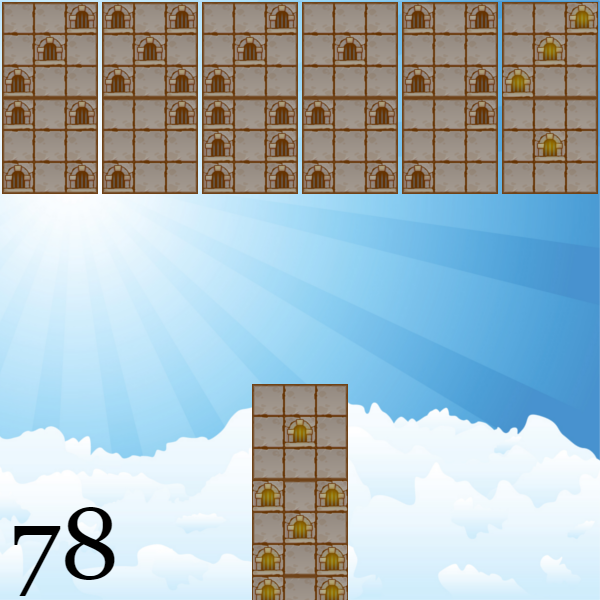
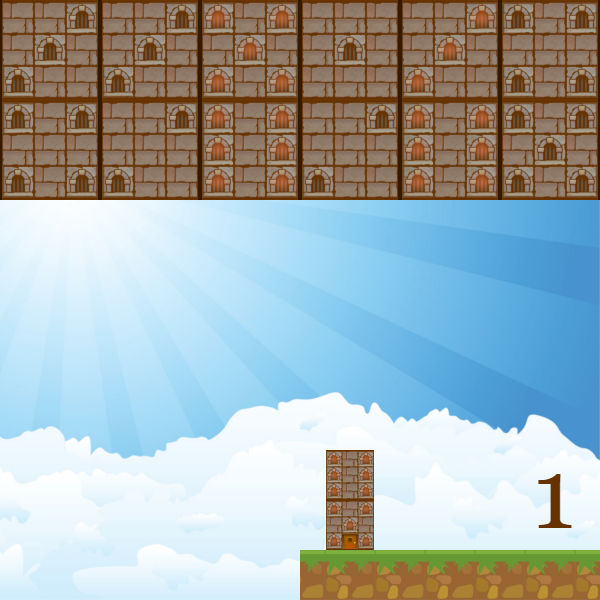
Added score tracking and time bonus

diff --git a/gj-js-api-min.js b/gj-js-api-min.js
@@ -1,0 +1,31 @@
+var GJAPI={};
+GJAPI.iGameID    = 47240;      // # change this
+GJAPI.sGameKey   = "f1b47c5077d0b44a0de2d408687f3207";     // # change this too
+GJAPI.bAutoLogin = true;   // automatically log in users on Game Jolt
+
+0!==GJAPI.iGameID&&""!==GJAPI.sGameKey||alert("Game ID or Game Key missing!");GJAPI.sAPI="http://gamejolt.com/api/game/v1";GJAPI.sLogName="[Game Jolt API]";GJAPI.iLogStack=20;GJAPI.asQueryParam=function(){for(var a={},f=window.location.search.substring(1).split("&"),c=0;c<f.length;++c){var b=f[c].split("=");"undefined"===typeof a[b[0]]?a[b[0]]=b[1]:"string"===typeof a[b[0]]?a[b[0]]=[a[b[0]],b[1]]:a[b[0]].push(b[1])}return a}();
+GJAPI.bOnGJ=window.location.hostname.match(/gamejolt/)?!0:!1;GJAPI.LogTrace=function(a){GJAPI.iLogStack&&(--GJAPI.iLogStack||(a="(\u256f\u00b0\u25a1\u00b0\uff09\u256f\ufe35 \u253b\u2501\u253b"),console.warn(GJAPI.sLogName+" "+a),console.trace())};GJAPI.SEND_USER=!0;GJAPI.SEND_GENERAL=!1;GJAPI.SendRequest=function(a,f,c){GJAPI.SendRequestEx(a,f,"json","",c)};
+GJAPI.SendRequestEx=function(a,f,c,b,d){a=GJAPI.sAPI+encodeURI(a)+(-1===a.indexOf("/?")?"?":"&")+"game_id="+GJAPI.iGameID+"&format="+c;GJAPI.bActive&&f===GJAPI.SEND_USER&&(a+="&username="+GJAPI.sUserName+"&user_token="+GJAPI.sUserToken);a+="&signature="+hex_md5(a+GJAPI.sGameKey);__CreateAjax(a,b,function(b){console.info(GJAPI.sLogName+" <"+a+"> "+b);if(""!==b&&"function"===typeof d)switch(c){case "json":d(eval("("+b+")").response);break;case "dump":var f=b.indexOf("\n"),h=b.substr(0,f-1);b=b.substr(f+
+1);d({success:"SUCCESS"===h,data:b});break;default:d(b)}})};GJAPI.bActive=GJAPI.bAutoLogin&&GJAPI.asQueryParam.gjapi_username&&GJAPI.asQueryParam.gjapi_token?!0:!1;GJAPI.sUserName=GJAPI.bActive?GJAPI.asQueryParam.gjapi_username:"";GJAPI.sUserToken=GJAPI.bActive?GJAPI.asQueryParam.gjapi_token:"";console.info(GJAPI.asQueryParam);console.info(GJAPI.sLogName+(GJAPI.bOnGJ?" E":" Not e")+"mbedded on Game Jolt <"+window.location.origin+window.location.pathname+">");
+console.info(GJAPI.sLogName+(GJAPI.bActive?" U":" No u")+"ser recognized <"+GJAPI.sUserName+">");window.location.hostname||console.warn(GJAPI.sLogName+" XMLHttpRequest may not work properly on a local environment");GJAPI.bSessionActive=!0;
+GJAPI.SessionOpen=function(){GJAPI.bActive?GJAPI.iSessionHandle||GJAPI.SendRequest("/sessions/open/",GJAPI.SEND_USER,function(a){a.success&&(GJAPI.iSessionHandle=window.setInterval(GJAPI.SessionPing,3E4),window.addEventListener("beforeunload",GJAPI.SessionClose,!1))}):GJAPI.LogTrace("SessionOpen() failed: no user logged in")};GJAPI.SessionPing=function(){GJAPI.bActive?GJAPI.SendRequest("/sessions/ping/?status="+(GJAPI.bSessionActive?"active":"idle"),GJAPI.SEND_USER):GJAPI.LogTrace("SessionPing() failed: no user logged in")};
+GJAPI.SessionClose=function(){GJAPI.bActive?(GJAPI.iSessionHandle&&(window.clearInterval(GJAPI.iSessionHandle),window.removeEventListener("beforeunload",GJAPI.SessionClose),GJAPI.iSessionHandle=0),GJAPI.SendRequest("/sessions/close/",GJAPI.SEND_USER)):GJAPI.LogTrace("SessionClose() failed: no user logged in")};GJAPI.bActive&&GJAPI.SessionOpen();
+GJAPI.UserLoginManual=function(a,f,c){GJAPI.bActive?GJAPI.LogTrace("UserLoginManual("+a+", "+f+") failed: user "+GJAPI.sUserName+" already logged in"):GJAPI.SendRequest("/users/auth/?username="+a+"&user_token="+f,GJAPI.SEND_GENERAL,function(b){b.success&&(GJAPI.bActive=!0,GJAPI.sUserName=a,GJAPI.sUserToken=f,GJAPI.SessionOpen());"function"===typeof c&&c(b)},!1)};
+GJAPI.UserLogout=function(){GJAPI.bActive?(GJAPI.SessionClose(),GJAPI.bActive=!1,GJAPI.sUserName="",GJAPI.sUserToken="",GJAPI.abTrophyCache={}):GJAPI.LogTrace("UserLogout() failed: no user logged in")};GJAPI.UserFetchID=function(a,f){GJAPI.SendRequest("/users/?user_id="+a,GJAPI.SEND_GENERAL,f)};GJAPI.UserFetchName=function(a,f){GJAPI.SendRequest("/users/?username="+a,GJAPI.SEND_GENERAL,f)};GJAPI.UserFetchCurrent=function(a){GJAPI.bActive?GJAPI.UserFetchName(GJAPI.sUserName,a):GJAPI.LogTrace("UserFetchCurrent() failed: no user logged in")};
+GJAPI.abTrophyCache={};GJAPI.TROPHY_ONLY_ACHIEVED=1;GJAPI.TROPHY_ONLY_NOTACHIEVED=-1;GJAPI.TROPHY_ALL=0;GJAPI.TrophyAchieve=function(a,f){GJAPI.bActive?GJAPI.abTrophyCache[a]||GJAPI.SendRequest("/trophies/add-achieved/?trophy_id="+a,GJAPI.SEND_USER,function(c){c.success&&(GJAPI.abTrophyCache[a]=!0);"function"===typeof f&&f(c)}):GJAPI.LogTrace("TrophyAchieve("+a+") failed: no user logged in")};
+GJAPI.TrophyFetch=function(a,f){GJAPI.bActive?GJAPI.SendRequest("/trophies/"+(a===GJAPI.TROPHY_ALL?"":"?achieved="+(a>=GJAPI.TROPHY_ONLY_ACHIEVED?"true":"false")),GJAPI.SEND_USER,f):GJAPI.LogTrace("TrophyFetch("+a+") failed: no user logged in")};GJAPI.TrophyFetchSingle=function(a,f){GJAPI.bActive?GJAPI.SendRequest("/trophies/?trophy_id="+a,GJAPI.SEND_USER,f):GJAPI.LogTrace("TrophyFetchSingle("+a+") failed: no user logged in")};GJAPI.SCORE_ONLY_USER=!0;GJAPI.SCORE_ALL=!1;
+GJAPI.ScoreAdd=function(a,f,c,b,d){GJAPI.bActive?GJAPI.ScoreAddGuest(a,f,c,"",b,d):GJAPI.LogTrace("ScoreAdd("+a+", "+f+", "+c+") failed: no user logged in")};GJAPI.ScoreAddGuest=function(a,f,c,b,d,e){var g=b&&b.length?!0:!1;GJAPI.SendRequest("/scores/add/?sort="+f+"&score="+c+(g?"&guest="+b:"")+(a?"&table_id="+a:"")+(d?"&extra_data="+d:""),g?GJAPI.SEND_GENERAL:GJAPI.SEND_USER,e)};
+GJAPI.ScoreFetch=function(a,f,c,b){!GJAPI.bActive&&f?GJAPI.LogTrace("ScoreFetch("+a+", "+f+", "+c+") failed: no user logged in"):GJAPI.SendRequest("/scores/?limit="+c+(a?"&table_id="+a:""),f!==GJAPI.SCORE_ONLY_USER?GJAPI.SEND_GENERAL:GJAPI.SEND_USER,b)};GJAPI.DATA_STORE_USER=0;GJAPI.DATA_STORE_GLOBAL=1;GJAPI.DataStoreSet=function(a,f,c,b){GJAPI.SendRequestEx("/data-store/set/?key="+f,a===GJAPI.DATA_STORE_USER,"json","data="+c,b)};
+GJAPI.DataStoreFetch=function(a,f,c){GJAPI.SendRequestEx("/data-store/?key="+f,a===GJAPI.DATA_STORE_USER,"dump","",c)};GJAPI.DataStoreUpdate=function(a,f,c,b,d){GJAPI.SendRequest("/data-store/update/?key="+f+"&operation="+c+"&value="+b,a===GJAPI.DATA_STORE_USER,d)};GJAPI.DataStoreRemove=function(a,f,c){GJAPI.SendRequest("/data-store/remove/?key="+f,a===GJAPI.DATA_STORE_USER,c)};GJAPI.DataStoreGetKeys=function(a,f){GJAPI.SendRequest("/data-store/get-keys/",a===GJAPI.DATA_STORE_USER,f)};
+function __CreateAjax(a,f,c){"string"!==typeof f&&(f="");if(window.XMLHttpRequest){var b=new XMLHttpRequest;b.onreadystatechange=function(){4===b.readyState&&c(b.responseText)};""!==f?(b.open("POST",a),b.setRequestHeader("Content-Type","application/x-www-form-urlencoded"),b.send(f)):(b.open("GET",a),b.send())}else console.error(GJAPI.sLogName+" XMLHttpRequest not supported")}var hexcase=0;function hex_md5(a){return rstr2hex(rstr_md5(str2rstr_utf8(a)))}
+function hex_hmac_md5(a,f){return rstr2hex(rstr_hmac_md5(str2rstr_utf8(a),str2rstr_utf8(f)))}function md5_vm_test(){return"900150983cd24fb0d6963f7d28e17f72"==hex_md5("abc").toLowerCase()}function rstr_md5(a){return binl2rstr(binl_md5(rstr2binl(a),8*a.length))}
+function rstr_hmac_md5(a,f){var c=rstr2binl(a);16<c.length&&(c=binl_md5(c,8*a.length));for(var b=Array(16),d=Array(16),e=0;16>e;e++)b[e]=c[e]^909522486,d[e]=c[e]^1549556828;c=binl_md5(b.concat(rstr2binl(f)),512+8*f.length);return binl2rstr(binl_md5(d.concat(c),640))}function rstr2hex(a){try{hexcase}catch(f){hexcase=0}for(var c=hexcase?"0123456789ABCDEF":"0123456789abcdef",b="",d,e=0;e<a.length;e++)d=a.charCodeAt(e),b+=c.charAt(d>>>4&15)+c.charAt(d&15);return b}
+function str2rstr_utf8(a){for(var f="",c=-1,b,d;++c<a.length;)b=a.charCodeAt(c),d=c+1<a.length?a.charCodeAt(c+1):0,55296<=b&&56319>=b&&56320<=d&&57343>=d&&(b=65536+((b&1023)<<10)+(d&1023),c++),127>=b?f+=String.fromCharCode(b):2047>=b?f+=String.fromCharCode(192|b>>>6&31,128|b&63):65535>=b?f+=String.fromCharCode(224|b>>>12&15,128|b>>>6&63,128|b&63):2097151>=b&&(f+=String.fromCharCode(240|b>>>18&7,128|b>>>12&63,128|b>>>6&63,128|b&63));return f}
+function rstr2binl(a){for(var f=Array(a.length>>2),c=0;c<f.length;c++)f[c]=0;for(c=0;c<8*a.length;c+=8)f[c>>5]|=(a.charCodeAt(c/8)&255)<<c%32;return f}function binl2rstr(a){for(var f="",c=0;c<32*a.length;c+=8)f+=String.fromCharCode(a[c>>5]>>>c%32&255);return f}
+function binl_md5(a,f){a[f>>5]|=128<<f%32;a[(f+64>>>9<<4)+14]=f;for(var c=1732584193,b=-271733879,d=-1732584194,e=271733878,g=0;g<a.length;g+=16)var h=c,k=b,l=d,m=e,c=md5_ff(c,b,d,e,a[g+0],7,-680876936),e=md5_ff(e,c,b,d,a[g+1],12,-389564586),d=md5_ff(d,e,c,b,a[g+2],17,606105819),b=md5_ff(b,d,e,c,a[g+3],22,-1044525330),c=md5_ff(c,b,d,e,a[g+4],7,-176418897),e=md5_ff(e,c,b,d,a[g+5],12,1200080426),d=md5_ff(d,e,c,b,a[g+6],17,-1473231341),b=md5_ff(b,d,e,c,a[g+7],22,-45705983),c=md5_ff(c,b,d,e,a[g+8],7,
+1770035416),e=md5_ff(e,c,b,d,a[g+9],12,-1958414417),d=md5_ff(d,e,c,b,a[g+10],17,-42063),b=md5_ff(b,d,e,c,a[g+11],22,-1990404162),c=md5_ff(c,b,d,e,a[g+12],7,1804603682),e=md5_ff(e,c,b,d,a[g+13],12,-40341101),d=md5_ff(d,e,c,b,a[g+14],17,-1502002290),b=md5_ff(b,d,e,c,a[g+15],22,1236535329),c=md5_gg(c,b,d,e,a[g+1],5,-165796510),e=md5_gg(e,c,b,d,a[g+6],9,-1069501632),d=md5_gg(d,e,c,b,a[g+11],14,643717713),b=md5_gg(b,d,e,c,a[g+0],20,-373897302),c=md5_gg(c,b,d,e,a[g+5],5,-701558691),e=md5_gg(e,c,b,d,a[g+
+10],9,38016083),d=md5_gg(d,e,c,b,a[g+15],14,-660478335),b=md5_gg(b,d,e,c,a[g+4],20,-405537848),c=md5_gg(c,b,d,e,a[g+9],5,568446438),e=md5_gg(e,c,b,d,a[g+14],9,-1019803690),d=md5_gg(d,e,c,b,a[g+3],14,-187363961),b=md5_gg(b,d,e,c,a[g+8],20,1163531501),c=md5_gg(c,b,d,e,a[g+13],5,-1444681467),e=md5_gg(e,c,b,d,a[g+2],9,-51403784),d=md5_gg(d,e,c,b,a[g+7],14,1735328473),b=md5_gg(b,d,e,c,a[g+12],20,-1926607734),c=md5_hh(c,b,d,e,a[g+5],4,-378558),e=md5_hh(e,c,b,d,a[g+8],11,-2022574463),d=md5_hh(d,e,c,b,a[g+
+11],16,1839030562),b=md5_hh(b,d,e,c,a[g+14],23,-35309556),c=md5_hh(c,b,d,e,a[g+1],4,-1530992060),e=md5_hh(e,c,b,d,a[g+4],11,1272893353),d=md5_hh(d,e,c,b,a[g+7],16,-155497632),b=md5_hh(b,d,e,c,a[g+10],23,-1094730640),c=md5_hh(c,b,d,e,a[g+13],4,681279174),e=md5_hh(e,c,b,d,a[g+0],11,-358537222),d=md5_hh(d,e,c,b,a[g+3],16,-722521979),b=md5_hh(b,d,e,c,a[g+6],23,76029189),c=md5_hh(c,b,d,e,a[g+9],4,-640364487),e=md5_hh(e,c,b,d,a[g+12],11,-421815835),d=md5_hh(d,e,c,b,a[g+15],16,530742520),b=md5_hh(b,d,e,
+c,a[g+2],23,-995338651),c=md5_ii(c,b,d,e,a[g+0],6,-198630844),e=md5_ii(e,c,b,d,a[g+7],10,1126891415),d=md5_ii(d,e,c,b,a[g+14],15,-1416354905),b=md5_ii(b,d,e,c,a[g+5],21,-57434055),c=md5_ii(c,b,d,e,a[g+12],6,1700485571),e=md5_ii(e,c,b,d,a[g+3],10,-1894986606),d=md5_ii(d,e,c,b,a[g+10],15,-1051523),b=md5_ii(b,d,e,c,a[g+1],21,-2054922799),c=md5_ii(c,b,d,e,a[g+8],6,1873313359),e=md5_ii(e,c,b,d,a[g+15],10,-30611744),d=md5_ii(d,e,c,b,a[g+6],15,-1560198380),b=md5_ii(b,d,e,c,a[g+13],21,1309151649),c=md5_ii(c,
+b,d,e,a[g+4],6,-145523070),e=md5_ii(e,c,b,d,a[g+11],10,-1120210379),d=md5_ii(d,e,c,b,a[g+2],15,718787259),b=md5_ii(b,d,e,c,a[g+9],21,-343485551),c=safe_add(c,h),b=safe_add(b,k),d=safe_add(d,l),e=safe_add(e,m);return[c,b,d,e]}function md5_cmn(a,f,c,b,d,e){return safe_add(bit_rol(safe_add(safe_add(f,a),safe_add(b,e)),d),c)}function md5_ff(a,f,c,b,d,e,g){return md5_cmn(f&c|~f&b,a,f,d,e,g)}function md5_gg(a,f,c,b,d,e,g){return md5_cmn(f&b|c&~b,a,f,d,e,g)}
+function md5_hh(a,f,c,b,d,e,g){return md5_cmn(f^c^b,a,f,d,e,g)}function md5_ii(a,f,c,b,d,e,g){return md5_cmn(c^(f|~b),a,f,d,e,g)}function safe_add(a,f){var c=(a&65535)+(f&65535);return(a>>16)+(f>>16)+(c>>16)<<16|c&65535}function bit_rol(a,f){return a<<f|a>>>32-f};

diff --git a/DominoTowers.js b/DominoTowers.js
@@ -1,9 +1,9 @@
-/*global Domino*/
+/*global Domino, GJAPI*/
 var DominoTowers = function (canvas, image) {
   'use strict';
   this.canvas = canvas;
   this.context = this.canvas.getContext('2d');
-  this.context.font = '100px Georgia';
+  this.context.font = '40px Georgia';
   this.context.textBaseline = 'bottom';
   this.context.textAlign = 'right';
   this.context.fillStyle = '#630';
@@ -39,7 +39,10 @@ DominoTowers.prototype.handleEvent = function (e) {
   this.base = 0;
   this.builtin = [];
   this.builtin[this.base] = [];
+  this.last = new Date();
   this.score = 0;
+  this.gameover = false;
+  this.bonus = 0;
 };
 
 DominoTowers.prototype.getNext = function (from, to) {
@@ -84,6 +87,12 @@ DominoTowers.prototype.draw = function () {
   this.context.drawImage(this.image, 600, 0, 600, 600, 0, 0, 600, 600);
   if (this.builtin.length) {
     for (base = 0; base <= this.base; base += 1) {
+      if (this.builtin[base].length === 0) {
+        this.context.fillText('Click on', 575, 250);
+        this.context.fillText('a domino', 575, 300);
+        this.context.fillText('to start', 575, 350);
+        this.context.fillText('a tower!', 575, 400);
+      }
       for (level = 0; level < this.builtin[base].length - 1; level += 1) {
         if (this.builtin[base][level]) {
           this.builtin[base][level].draw(1);
@@ -96,6 +105,8 @@ DominoTowers.prototype.draw = function () {
                             this.offsetX + base * 100 - 25, this.offsetY,
                              300, 50);
     }
+  } else {
+    this.context.fillText('Click to start!', 575, 250);
   }
   this.context.drawImage(this.image, 0, 300, 600, 200, 0, 0, 600, 200);
   if (this.available.length) {
@@ -114,7 +125,14 @@ DominoTowers.prototype.draw = function () {
       }
     }
   }
-  this.context.fillText(this.score || '', 575, 550);
+  if (this.gameover) {
+    this.context.fillText('No more', 575, 250);
+    this.context.fillText('dominoes!', 575, 300);
+  }
+  this.context.fillStyle = '#630';
+  this.context.fillText(this.score ? 'Score: ' + this.score : '', 575, 500);
+  this.context.fillText(this.bonus > 1 ? 'x' + this.bonus : '', 575, 550);
+  this.context.fillStyle = '#fff';
 };
 
 DominoTowers.prototype.addRandomFrom = function (array) {
@@ -124,7 +142,7 @@ DominoTowers.prototype.addRandomFrom = function (array) {
 
 DominoTowers.prototype.build = function (slot) {
   'use strict';
-  var s, restart;
+  var s, restart, now;
   if (this.builtin[this.base][0] &&
       this.available[slot].bottom !== this.builtin[this.base][0].top) {
     return false;
@@ -134,7 +152,10 @@ DominoTowers.prototype.build = function (slot) {
   this.builtin[this.base][0].y = -this.offsetY;
   this.builtin[this.base][0].panToLevel(this.builtin[this.base].length,
                                         this.base);
-  this.score += this.builtin[this.base].length;
+  now = new Date();
+  this.bonus = Math.max(1, Math.round(1000 / (now - this.last)));
+  this.score += (this.builtin[this.base].length - 1) * this.bonus;
+  this.last = now;
   this.available[slot] = this.addRandomFrom(this.hidden);
   if (this.available[slot]) {
     this.available[slot].panToSlot(slot,
@@ -158,6 +179,8 @@ DominoTowers.prototype.build = function (slot) {
     }
   }
   if (restart) {
+    this.gameover = true;
+    GJAPI.ScoreAdd(0, this.score, this.score + ' points');
     this.canvas.addEventListener('click', this);
   } else {
     this.base += 1;

diff --git a/index.html b/index.html
@@ -4,6 +4,7 @@
     <meta charset="UTF-8">
     <title>Domino Towers</title>
 	<meta name="Kosina Zoltán" content=""/>
+  <script src="gj-js-api-min.js"></script>
   <script src="DominoTowers.js"></script>
   <script src="Domino.js"></script>
   <style>
